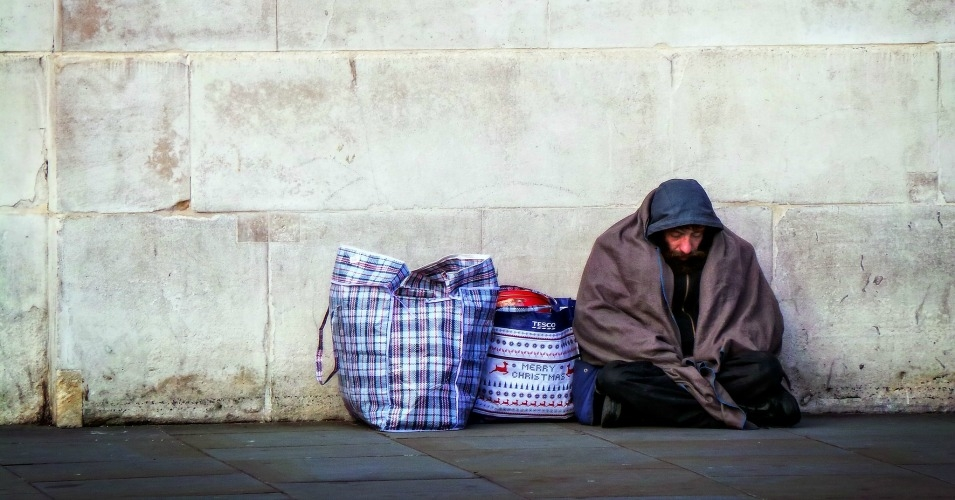
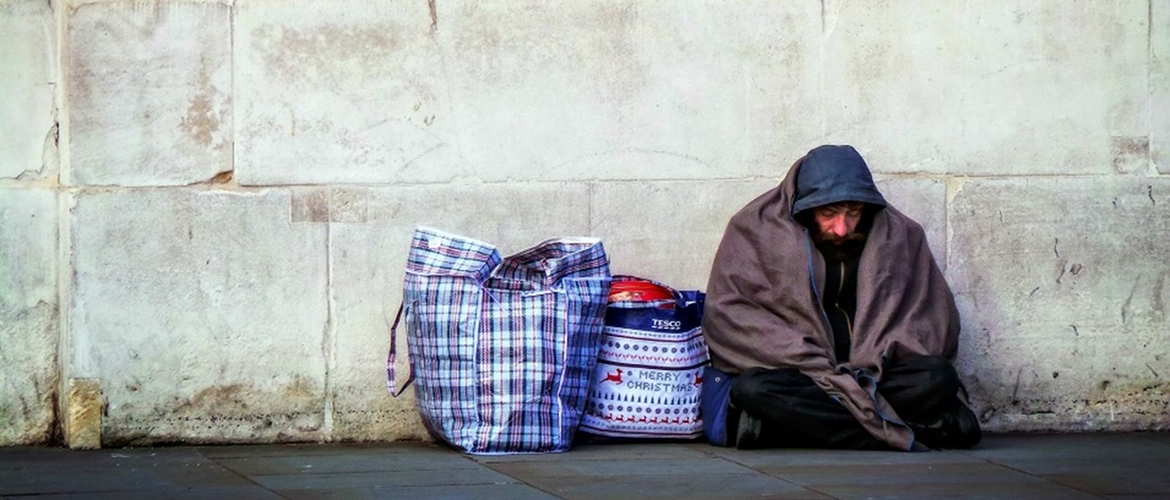
img
update

diff --git a/bootflat.github.io-master/index.html b/bootflat.github.io-master/index.html
@@ -71,7 +71,7 @@
         <h3><a href="file:///C:/Users/Batu/Documents/GitHub/team-4/bootflat.github.io-master/templateIndex.html">Wendell</a></h3>
 		<p>After being homeless for 25 years, his Search came to an end.</p>
       </div></div>
-                  <div class="item"><img src="img/slider2.jpg"><div class="carousel-caption">
+                  <div class="item"><img src="img/homeless1.jpg"><div class="carousel-caption">
         <h3>Travis</h3>
         <p> </p>
       </div></div>
